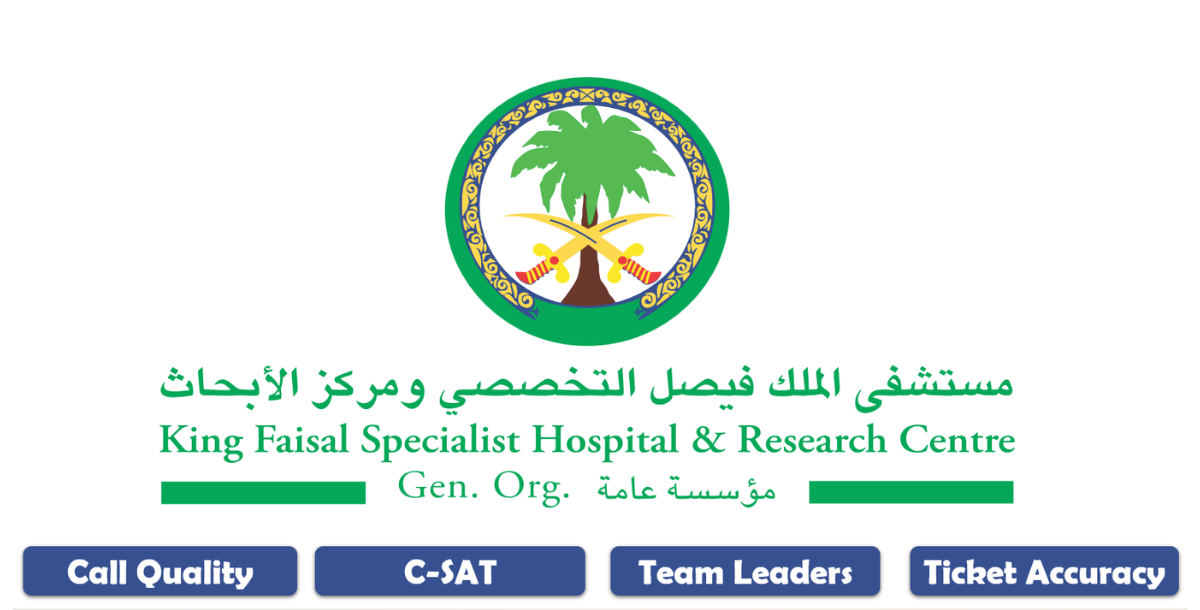
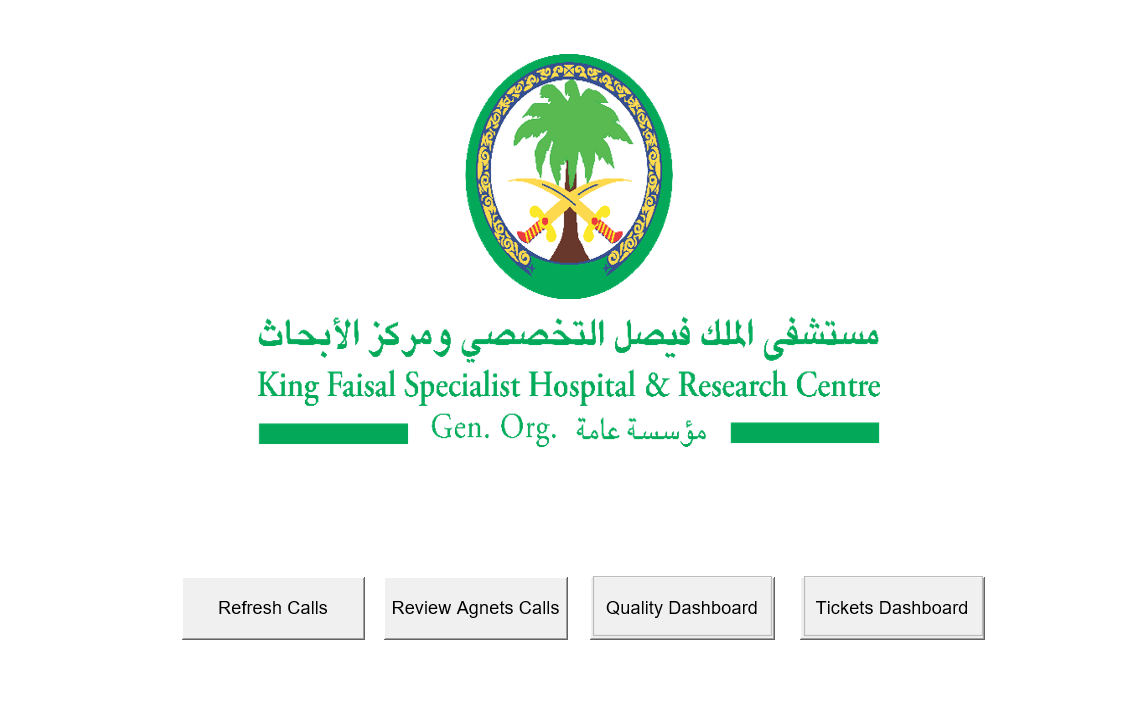
updated project-3 image and project details page

Changed region(s): [[0.0, 0.0623, 1.0, 1.0]]

diff --git a/project-3.html b/project-3.html
@@ -1,16 +1,19 @@
-
 <!DOCTYPE html>
 <html lang="en">
+
 <head>
   <meta charset="UTF-8">
   <meta name="viewport" content="width=device-width, initial-scale=1.0">
   <meta name="author" content="Ahmed Yousri">
-  <title>Project Details | Weather Application</title>
+  <title>Project Details | Quality Master</title>
   <link rel="stylesheet" href="css/styles.css">
   <link rel="preconnect" href="https://fonts.googleapis.com">
   <link rel="preconnect" href="https://fonts.gstatic.com" crossorigin>
-  <link href="https://fonts.googleapis.com/css2?family=Poppins:wght@300;400;500;600;700&family=Source+Sans+Pro:wght@300;400;600&display=swap" rel="stylesheet">
+  <link
+    href="https://fonts.googleapis.com/css2?family=Poppins:wght@300;400;500;600;700&family=Source+Sans+Pro:wght@300;400;600&display=swap"
+    rel="stylesheet">
 </head>
+
 <body>
   <header>
     <div class="container">
@@ -30,7 +33,7 @@
           <span></span>
           <span></span>
           <span></span>
-        </div>  
+        </div>
       </nav>
     </div>
   </header>
@@ -38,20 +41,25 @@
   <main>
     <section class="project-case-study">
       <div class="container">
-        <h1 class="project-title">Weather Application</h1>
-        <img src="https://images.unsplash.com/photo-1581091226825-a6a2a5aee158?ixlib=rb-1.2.1&ixid=MnwxMjA3fDB8MHxwaG90by1wYWdlfHx8fGVufDB8fHx8&auto=format&fit=crop&w=1000&q=80" alt="Project 3" class="project-main-image">
-        
+        <h1 class="project-title">Quality Master</h1>
+        <img src="/public/KFSH.png" alt="Project 3" class="project-main-image">
+
         <div class="case-study-content">
           <h2>The Problem</h2>
-          <p>Provide a detailed description of the problem or challenge this project was designed to solve. What were the client's needs or the market gap you identified?</p>
-          
+          <p>Faced a significant hurdle managing and analyzing massive transactional data within a highly secured environment. Engineered a solution under strict infrastructure constraints where tool usage was restricted to Microsoft Excel, requiring a robust system for high-throughput data.</p>
+
           <h2>The Solution</h2>
-          <p>Describe the solution you implemented. Talk about the technologies used, your development process, and the key features you built to address the problem.</p>
-          
+          <p>
+   - Data Modeling & Schema Design: Implemented normalized table schemas for efficient data structuring.<br>
+   - End-to-End Data Pipeline: Created a seamless automated workflow from collection to visualization.<br>
+   - Strategic Metric Definition: Collaborated with stakeholders to formulate KPIs that reflect true performance.<br>
+   - Decision Support Systems: Built intuitive dashboards using Power Query and visualization tools to identify bottlenecks.
+</p>
+
           <h2>The Outcome</h2>
-          <p>Explain the results of the project. Did it meet the client's goals? What was the impact? Include any metrics or positive feedback you have.</p>
+          <p>Delivered a centralized, full-stack data solution capable of processing massive datasets within a restricted environment. This transformed basic table design into sophisticated data modeling and turned manual entry into a high-performance analytics ecosystem, empowering management with immediate, data-driven corrective actions.</p>
         </div>
-        
+
         <div class="back-to-projects">
           <a href="index.html#projects" class="btn btn-outline">← Back to Projects</a>
           <a href="#" class="btn">Live Demo</a>
@@ -66,7 +74,7 @@
         <div class="footer-logo">
           <a href="index.html#home">Ahmed Yousri</a>
         </div>
-        
+
         <div class="footer-links">
           <a href="index.html#home">Home</a>
           <a href="index.html#projects">Projects</a>
@@ -75,13 +83,13 @@
           <a href="index.html#contact">Contact</a>
           <a href="index.html#booking">Book a Meeting</a>
         </div>
-        
+
         <div class="footer-social">
           <a href="https://github.com/Youzri" aria-label="GitHub profile">GitHub</a>
           <a href="https://www.linkedin.com/in/ahmed-yousri-dataanalyst/" aria-label="LinkedIn profile">LinkedIn</a>
         </div>
       </div>
-      
+
       <div class="footer-bottom">
         <p>&copy; 2026 Ahmed Yousri. All rights reserved.</p>
       </div>
@@ -90,4 +98,5 @@
 
   <script src="js/main.js"></script>
 </body>
+
 </html>

diff --git a/index.html b/index.html
@@ -80,7 +80,8 @@
             </div>
             <div class="project-details">
               <h3>Online Examination System</h3>
-              <p>An online examination system for teachers, institutes, and schools to help test students, analyze their performance, and help students monitor their own performance.</p>
+              <p>An online examination system for teachers, institutes, and schools to help test students, analyze their
+                performance, and help students monitor their own performance.</p>
               <div class="project-tags">
                 <span>React</span>
                 <span>Tailwind</span>
@@ -99,7 +100,8 @@
             </div>
             <div class="project-details">
               <h3>Ktaby</h3>
-              <p>A community-focused book swapping platform designed to encourage reading. Users can list books, discover new titles, and connect with fellow readers in their area to exchange books.</p>
+              <p>A community-focused book swapping platform designed to encourage reading. Users can list books,
+                discover new titles, and connect with fellow readers in their area to exchange books.</p>
               <div class="project-tags">
                 <span>React</span>
                 <span>Bootstrap</span>
@@ -115,19 +117,18 @@
           <!-- Project 3 -->
           <div class="project-card">
             <div class="project-image">
-              <img
-                src="https://images.unsplash.com/photo-1581091226825-a6a2a5aee158?ixlib=rb-1.2.1&ixid=MnwxMjA3fDB8MHxwaG90by1wYWdlfHx8fGVufDB8fHx8&auto=format&fit=crop&w=1000&q=80"
-                alt="Project 3">
+              <img src="/public/KFSH.png" alt="Project 3">
             </div>
             <div class="project-details">
-              <h3>Weather Application</h3>
-              <p>A weather application that provides real-time weather data based on location. Features a clean UI with
-                animated weather icons.</p>
+              <h3>Quality Master</h3>
+              <p>A robust data pipeline designed to measure true team performance under strict security protocols. This
+                Excel-based solution aggregates large-scale data, formulating custom KPIs to visualize and improve
+                operational efficiency.</p>
               <div class="project-tags">
-                <span>HTML</span>
-                <span>CSS</span>
-                <span>JavaScript</span>
-                <span>API</span>
+                <span>Excel</span>
+                <span>VBA</span>
+                <span>Data Architecture</span>
+                <span>Dashboard</span>
               </div>
               <div class="project-links">
                 <a href="project-3.html" class="project-link">View Project Details</a>

diff --git a/css/styles.css b/css/styles.css
@@ -1026,7 +1026,7 @@ footer {
 
 .project-main-image {
   width: 100%;
-  max-height: 500px;
+  max-height: 600px;
   object-fit: cover;
   border-radius: var(--border-radius-md);
   margin-bottom: var(--spacing-xl);
